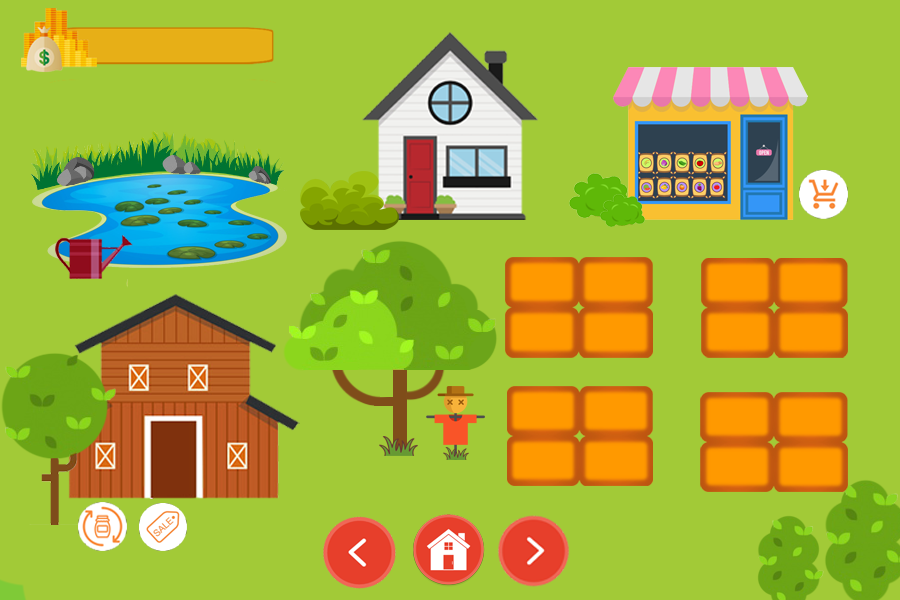
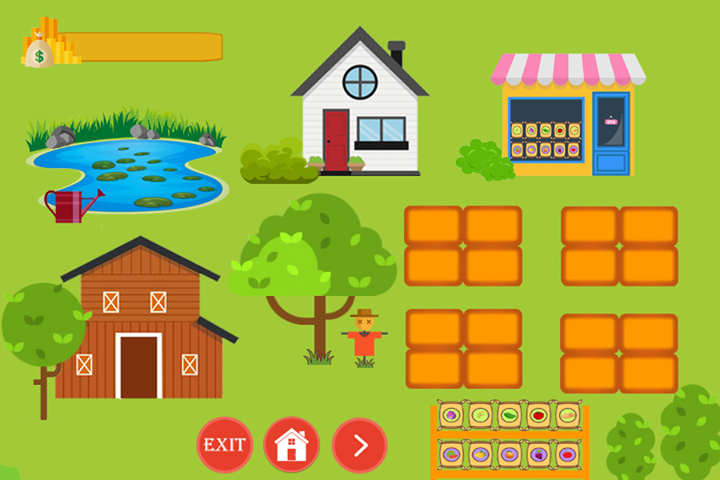
change button position with new farm_bg

diff --git a/run.py b/run.py
@@ -159,11 +159,12 @@ class Player_farm():
         self.shop_button = ((545, 66),(720,220))
         self.storage_button = ((63,295),(265,499))
         self.watering_button = ((48,235),(120,280))
-        self.mainmenu_button = ((367,515),(432,586))
-        self.seedselection_button = ((520,515-10),(670,586-10))
+        self.mainmenu_button = ((218,523),(283,593))
+        self.seedselection_button = ((486,499),(647,584))
         self.save_button = ((0,0),(0,0))
         self.saveexit_button = ((0,0),(0,0))
-        
+        self.home_button = ((293,523),(356,593))
+        self.next_button = ((367,523),(432,593))
         self.farmplot_position = [[(449,257),(581,358)],    # ซ้ายบน
                                 [(624,257),(754,358)],      # ขวาบน
                                 [(449,386),(581,492)],      # ล่างซ้าย
@@ -216,7 +217,6 @@ class Player_farm():
                     if stats[1] and (stats[2] < self.time): # ถ้าฟาร์มชื้น และ เกินเวลาคงเหลือ
                         self.set_dry(plot)
                         self.draw_farmland(plot, False)
-                        print (plot, ' Dry !!!!')
 
                 # set crops growing to next state
                 if stats[4] is not None:
@@ -237,7 +237,7 @@ class Player_farm():
                 #print (self.inv.get_inv())
                 # pointer
                 mouse_pos = pygame.mouse.get_pos()
-                #print (mouse_pos)
+                print (mouse_pos)
                 if event.type == pygame.MOUSEBUTTONUP:
                     clickup = True
                 else:
@@ -254,25 +254,30 @@ class Player_farm():
                 # Botton ------------------------- Botton
                 
 
-                # ปุ่ม ออกไป main_menu]
+                # ปุ่ม ออกไป main_menu
                 if is_hit_box(mouse_pos,self.mainmenu_button[0], self.mainmenu_button[1]):
-                    print ('Player_farm : main_menu')
+                    #print ('Player_farm : main_menu')
 
                     if clickdown:
                         loaded_sound.click.play()
                         return 'main'
                 # ปุ่ม รดน้ำ 
                 if is_hit_box(mouse_pos,self.watering_button[0], self.watering_button[1]):
-                    print ('Player_farm : watering')
+                    #print ('Player_farm : watering')
 
                     if clickdown :
                         if seeding:  # คุณจะปลูกพร้อมรดน้ำไม่ได้ !!! ทำทีละอย่างนะจ๊ะ มือมีแค่ 2 ข้าง:
                             seeding = not seeding
+                            print('Stop Seeding')
                         watering = not watering
+                        if watering:
+                            print('Start Watering')
+                        else:
+                            print('Stop Watering')
                 
                 # ปุ่ม คลัง
                 if is_hit_box(mouse_pos,self.storage_button[0], self.storage_button[1]):
-                    print ('Player_farm : storage')
+                    #print ('Player_farm : storage')
 
                     if clickdown:
                         storage = Storage_menu(self.inv, self.money)
@@ -281,7 +286,7 @@ class Player_farm():
                 
                 # ปุ่ม ร้านค้า
                 if is_hit_box(mouse_pos,self.shop_button[0], self.shop_button[1]):
-                    print ('Player_farm : shop')
+                    #print ('Player_farm : shop')
 
                     if clickdown:
                         shop = Shop_menu(self.inv, self.money)
@@ -295,14 +300,15 @@ class Player_farm():
                     if clickdown and (not seeding): # ถ้าคลิกตอนไม่ปลูก
                         if watering:  # คุณจะปลูกพร้อมรดน้ำไม่ได้ !!! ทำทีละอย่างนะจ๊ะ มือมีแค่ 2 ข้าง:
                             watering = not watering
+                            print('Stop Watering')
                             
                         seed_name = self.seed_index(mouse_pos)
-                        print ('Select: %s'%seed_name)
+                        print ('Start Seeding: %s'%seed_name)
                         if seed_name is not None:
 
                             if self.inv.item_dict[seed_name+'_seed'] > 0:
                                 seeding = True
-                                print ('Select the plot that you want to plant it')
+                                #print ('Select the plot that you want to plant it')
                             else:
                                 seeding = False
                                 seed_name = None
@@ -310,22 +316,18 @@ class Player_farm():
                     elif clickdown and seeding: # ถ้าคลิกตอนกำลังเลือกแปลง = ยกเลิกการปลูก
                         seeding = False
                         seed_name = None
-                        print ('You cancle to plant that seed')
+                        print('Stop Seeding')
 
                 # farmplot zone ----------------- farmplot zone
                 # top left
                 if is_hit_box(mouse_pos, self.farmplot_position[0][0], self.farmplot_position[0][1]):
                     index = self.farmplot_check_crops(self.farmplot_position[0], mouse_pos)
-                    if (index != None):
-                        print(self.check_crops_status('1'+str(index)))
                     if clickdown and (index != None):
                         crops_status = self.check_crops_status('1'+str(index))
                         if watering:
-                            print ('watering : ', '1'+str(index))
                             self.set_wet('1'+str(index))
                             self.draw_farmland('1'+str(index), True)
                         elif seeding and crops_status[0] is None:
-                            print ('seeding :', '1'+str(index))
                             self.inv.remove(seed_name+'_seed', 1)
                             self.set_crops('1'+str(index), seed_name)
                 
@@ -342,15 +344,11 @@ class Player_farm():
                 # top right
                 if is_hit_box(mouse_pos, self.farmplot_position[1][0], self.farmplot_position[1][1]):
                     index = self.farmplot_check_crops(self.farmplot_position[1], mouse_pos)
-                    if (index != None):
-                        print(self.check_crops_status('2'+str(index)))
                     if clickdown and (index != None):
                         crops_status = self.check_crops_status('2'+str(index))
                         if watering:
-                            print ('watering : ', '2'+str(index))
                             self.set_wet('2'+str(index))
                         elif seeding and crops_status[0] is None:
-                            print ('seeding :', '2'+str(index))
                             self.inv.remove(seed_name+'_seed', 1)
                             self.set_crops('2'+str(index), seed_name)
                             seeding = False
@@ -366,15 +364,11 @@ class Player_farm():
                 # down left
                 if is_hit_box(mouse_pos, self.farmplot_position[2][0], self.farmplot_position[2][1]):
                     index = self.farmplot_check_crops(self.farmplot_position[2], mouse_pos)
-                    if (index != None):
-                        print(self.check_crops_status('3'+str(index)))
                     if clickdown and (index != None):
                         crops_status = self.check_crops_status('3'+str(index))
                         if watering:
-                            print ('watering : ', '3'+str(index))
                             self.set_wet('3'+str(index))
                         elif seeding and crops_status[0] is None:
-                            print ('seeding :', '3'+str(index))
                             self.inv.remove(seed_name+'_seed', 1)
                             self.set_crops('3'+str(index), seed_name)
                             seeding = False
@@ -390,12 +384,9 @@ class Player_farm():
                 # down right
                 if is_hit_box(mouse_pos, self.farmplot_position[3][0], self.farmplot_position[3][1]):
                     index = self.farmplot_check_crops(self.farmplot_position[3], mouse_pos)
-                    if (index != None):
-                        print(self.check_crops_status('4'+str(index)))
                     if clickdown and (index != None):
                         crops_status = self.check_crops_status('4'+str(index))
                         if watering:
-                            print ('watering : ', '4'+str(index))
                             self.set_wet('4'+str(index))
                         elif seeding and crops_status[0] is None:
                             print ('seeding :', '4'+str(index))
@@ -412,6 +403,7 @@ class Player_farm():
                             self.set_crops('4'+str(index), 'empty')
     
     def set_crops(self, plot, seed_name):
+        print('Plot:%s was set to crop:%s !'%(plot, seed_name))
         # plot เป็น str มี 2 อักษร คือ เลข และ a-d
         # seed_name เป็น str ที่เป๋็นชื่อของพืช
         if seed_name == 'wheat':
@@ -452,6 +444,7 @@ class Player_farm():
         self.farmplot[int(plot[0]) - 1].farmland[land].crop.remaining_growth_time = self.farmplot[int(plot[0]) - 1].farmland[land].crop.growing_time
             
     def set_dry(self, plot):
+        print ('Plot:%s is Dry!'%plot)
         if plot[1] == 'a' or plot[1] == '0':
             land = 0
         elif plot[1] == 'b' or plot[1] == '1':
@@ -467,6 +460,7 @@ class Player_farm():
         self.farmplot[int(plot[0]) - 1].farmland[land].dry_time = None
     
     def set_wet(self, plot):
+        print ('Plot:%s is Wet!'%plot)
         if plot[1] == 'a' or plot[1] == '0':
             land = 0
         elif plot[1] == 'b' or plot[1] == '1':
@@ -574,28 +568,28 @@ class Player_farm():
             b = mid_point # (mid x ,mid y)
             if is_hit_box(mouse_pos,a, b):  
                 #f ดึงข้อมูล ฟาร์ม a มาแสดงผล
-                return 0
+                return 'a'
 
             # farm  b
             a = (mid_point[0], start_point[1]) # (mid x ,start y)
             b = (final_point[0], mid_point[1]) # (final x, mid y) 
             if is_hit_box(mouse_pos,a, b):  
                 #f ดึงข้อมูล ฟาร์ม b มาแสดงผล
-                return 1
+                return 'b'
 
             # farm  c
             a = (start_point[0], mid_point[1]) # (start x, mid y) 
             b = (mid_point[0], final_point[1]) # (mid x, final y)
             if is_hit_box(mouse_pos,a, b):  
                 #f ดึงข้อมูล ฟาร์ม c มาแสดงผล
-                return 2
+                return 'c'
 
             # farm  d
             a = mid_point # (mid x ,mid y)
             b = final_point #(final x, final y)
             if is_hit_box(mouse_pos,a, b):  
                 #f ดึงข้อมูล ฟาร์ม d มาแสดงผล
-                return 3
+                return 'd'
             return None
     
     def seed_index(self, mouse_pos):
@@ -629,7 +623,6 @@ class Player_farm():
             if box_x == 4:
                 return 'grape'
             
-        print ('SEED_INDEX : ',box_x,',',box_y)
         return None
             
     def save(self, profile_name):
@@ -648,24 +641,29 @@ class Player_farm():
             self.draw_farmland(plot)
 
         # ปุ่มรดน้ำ
-        
-        pygame.draw.rect(window, (0,0,150),[self.watering_button[0][0], self.watering_button[0][1], self.watering_button[1][0] - self.watering_button[0][0], self.watering_button[1][1] - self.watering_button[0][1]], 3)
+        pygame.draw.rect(window, (0,0,255),[self.watering_button[0][0], self.watering_button[0][1], self.watering_button[1][0] - self.watering_button[0][0], self.watering_button[1][1] - self.watering_button[0][1]], 3)
         
         # ปุ่มยุ้งฉาง
-        pygame.draw.rect(window, (150,0,150),[self.storage_button[0][0], self.storage_button[0][1], self.storage_button[1][0] - self.storage_button[0][0], self.storage_button[1][1] - self.storage_button[0][1]], 3)
+        pygame.draw.rect(window, (255,0,255),[self.storage_button[0][0], self.storage_button[0][1], self.storage_button[1][0] - self.storage_button[0][0], self.storage_button[1][1] - self.storage_button[0][1]], 3)
         
         # ปุ่มร้านค้า
-        pygame.draw.rect(window, (0,150,150),[self.shop_button[0][0], self.shop_button[0][1], self.shop_button[1][0] - self.shop_button[0][0], self.shop_button[1][1] - self.shop_button[0][1]], 3)
+        pygame.draw.rect(window, (0,255,255),[self.shop_button[0][0], self.shop_button[0][1], self.shop_button[1][0] - self.shop_button[0][0], self.shop_button[1][1] - self.shop_button[0][1]], 3)
         
-        # ปุ่มออกเกม
-        pygame.draw.rect(window, (150,150,0),[self.mainmenu_button[0][0], self.mainmenu_button[0][1], self.mainmenu_button[1][0] - self.mainmenu_button[0][0], self.mainmenu_button[1][1] - self.mainmenu_button[0][1]], 3)
+        # ปุ่มออก main_menu
+        pygame.draw.rect(window, (255,255,0),[self.mainmenu_button[0][0], self.mainmenu_button[0][1], self.mainmenu_button[1][0] - self.mainmenu_button[0][0], self.mainmenu_button[1][1] - self.mainmenu_button[0][1]], 3)
+        
+        # ปุ่ม กลับบ้าน
+        pygame.draw.rect(window, (255,255,255),[self.home_button[0][0], self.home_button[0][1], self.home_button[1][0] - self.home_button[0][0], self.home_button[1][1] - self.home_button[0][1]], 3)
+        
+        # ปุ่ม loop AI
+        pygame.draw.rect(window, (255,0,0),[self.next_button[0][0], self.next_button[0][1], self.next_button[1][0] - self.next_button[0][0], self.next_button[1][1] - self.next_button[0][1]], 3)
         
         # ปุ้มเลือก seed
-        pygame.draw.rect(window, (150,150,0),[self.seedselection_button[0][0], self.seedselection_button[0][1], self.seedselection_button[1][0] - self.seedselection_button[0][0], self.seedselection_button[1][1] - self.seedselection_button[0][1]], 3)
-        over_up = 15
-        over_x = 15
-        seed_scale = self.seedselection_button[1][0]-self.seedselection_button[0][0]+(over_x*2) , self.seedselection_button[1][1]-self.seedselection_button[0][1]+(over_up*2)
-        window.blit(pygame.transform.scale(loaded_image.shop_shelf, seed_scale), (self.seedselection_button[0][0]-over_x,self.seedselection_button[0][1]-over_up))
+        pygame.draw.rect(window, (0,255,0),[self.seedselection_button[0][0], self.seedselection_button[0][1], self.seedselection_button[1][0] - self.seedselection_button[0][0], self.seedselection_button[1][1] - self.seedselection_button[0][1]], 3)
+        #over_up = 15
+        #over_x = 15
+        #seed_scale = self.seedselection_button[1][0]-self.seedselection_button[0][0]+(over_x*2) , self.seedselection_button[1][1]-self.seedselection_button[0][1]+(over_up*2)
+        #window.blit(pygame.transform.scale(loaded_image.shop_shelf, seed_scale), (self.seedselection_button[0][0]-over_x,self.seedselection_button[0][1]-over_up))
         
 
     def draw_farmland(self, plot, watering=False):
